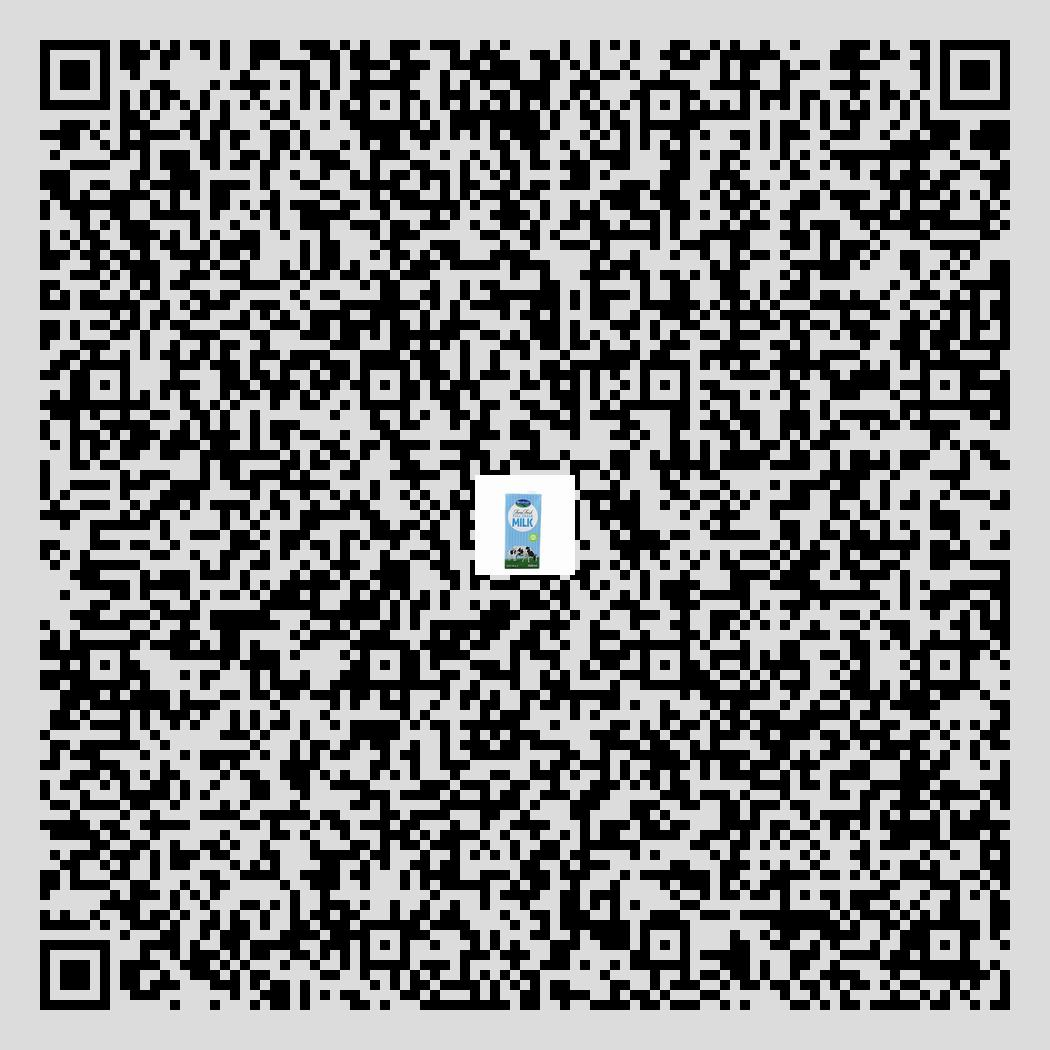
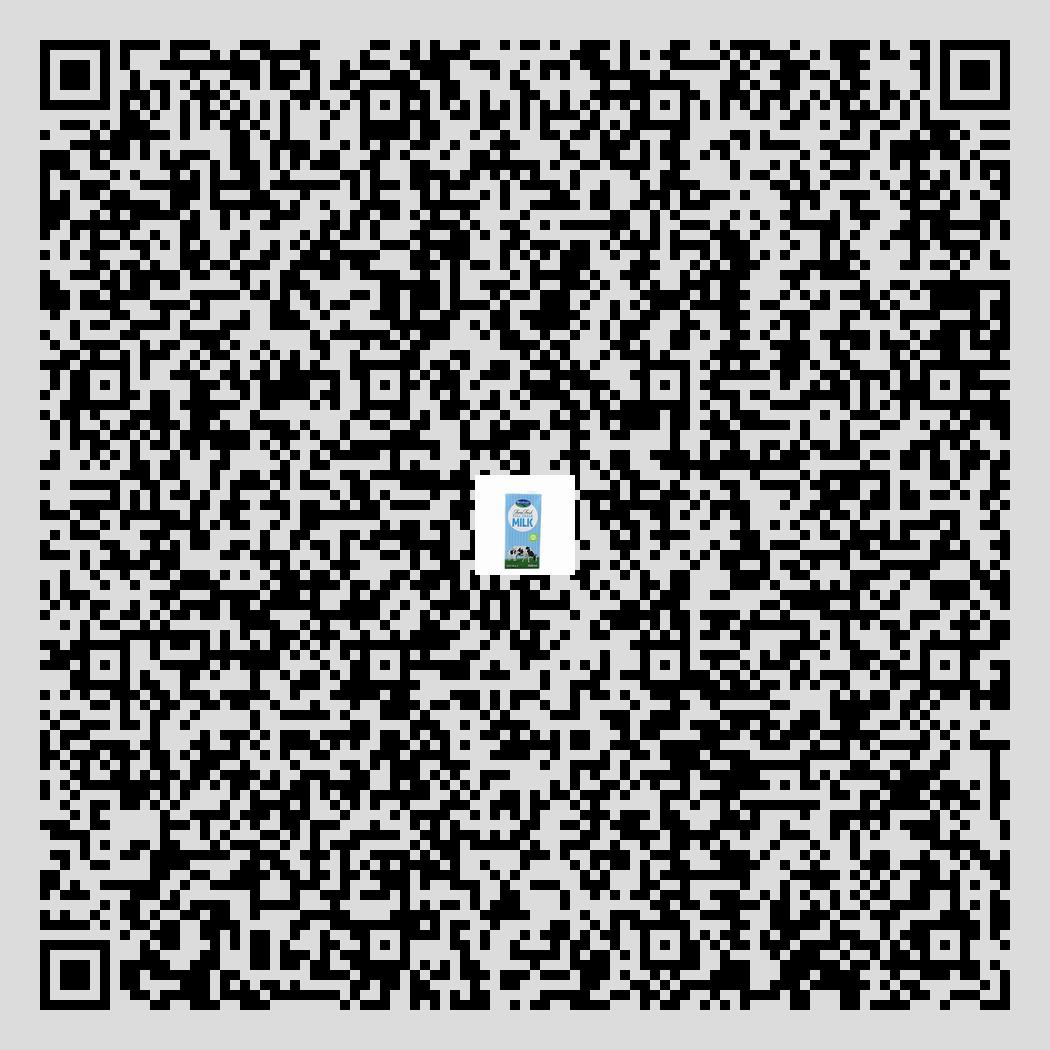
style email template|add url to sendemail page

Changed region(s): [[0.0305, 0.0305, 0.9752, 0.9752], [0.8838, 0.1219, 0.9752, 0.2743], [0.8533, 0.9143, 0.9448, 0.9752]]

diff --git a/feedback/templates/feedback/showqrcode.html b/feedback/templates/feedback/showqrcode.html
@@ -14,7 +14,7 @@
   </div>
   <br />
   <p class="qruri">
-    {{base_url}}/media/qrcodes/thumbnails/{{ brand_qr_code_picture}}
+    {{base_url}}/media/qrcodes/{{ brand_qr_code_picture}}
   </p>
 
   <div class="orangetext">&#62; Display the QRcode for scanning</div>
@@ -34,6 +34,13 @@
       name="brand_qr_code_url"
       id="loc"
       value="{{brand_qr_code_url}}"
+      hidden
+    />
+    <input
+      type="text"
+      name="base_url"
+      id="loc"
+      value="{{base_url}}"
       hidden
     />
     <input

diff --git a/feedback/templates/feedback/emailqrcode.html b/feedback/templates/feedback/emailqrcode.html
@@ -6,7 +6,7 @@
   </div>
   <br>
   <p class="qruri">
-    {{base_url}}media/qrcodes/thumbnails/{{ brand_qr_code_picture}}
+    {{base_url}}media/qrcodes/{{ brand_qr_code_picture}}
   </p>
 <form action='/email-qr-code/' method="POST">
   {% csrf_token %}

diff --git a/feedback/templates/feedback/recommendfriend.html b/feedback/templates/feedback/recommendfriend.html
@@ -5,7 +5,7 @@
     X
   </button>
   <div class="mailed centertext" id="mailed">
-    Embedding code & QR code mailed to
+    Embedding code & QR code Link mailed to
     <span class="text-success">{{ email }}</span>
   </div>
 

diff --git a/feedback/static/css/feedback.css b/feedback/static/css/feedback.css
@@ -369,3 +369,8 @@ input::placeholder {
     height: 40vh;
   }
 }
+
+.btn-success {
+  background-color: #90ee90 !important;
+  border-color: #90ee90 !important;
+}

diff --git a/feedback/views.py b/feedback/views.py
@@ -21,6 +21,9 @@ def decode(key,decodetext):
 # Encryption Key------------------------------------------------------
 key="l6h8C92XGJmQ_aXpPN7_VUMzA8LS8Bg50A83KNcrVhQ="
 
+# Base URL------------------------------------------------------
+base_url = 'http://127.0.0.1:8000/'
+
 # Create your views here.
 def error_404_view(request, exception):
 
@@ -46,7 +49,7 @@ def helpvideo(request):
 def create_Qr_Code(request):
 
     context = {}
-    base_url = 'http://127.0.0.1:8000/'
+   
 
     # Get Brand Data
     if request.method == 'POST':
@@ -105,10 +108,12 @@ def showqr(request):
     if request.method == 'POST':
         brand_qr_code_picture = request.POST['brand_qr_code_picture']
         brand_qr_code_url = request.POST['brand_qr_code_url']
+        base_url = request.POST['base_url']
 
         context = {}
         context["brand_qr_code_picture"] = brand_qr_code_picture
         context['brand_qr_code_url'] = brand_qr_code_url
+        context['base_url'] = base_url
         return render(request, 'feedback/emailqrcode.html', context)
 
 
@@ -117,6 +122,7 @@ def showqr(request):
 def emailqr(request):
 
     context = {}
+
     # Find Email Address
     if request.method == 'POST':
         brand_user_name = request.POST['brand_user_name']
@@ -125,14 +131,14 @@ def emailqr(request):
         brand_qr_code_url = request.POST['brand_qr_code_url']
 
         # URL to QR Code Image
-        brand_qr_code_picture_url = f"http://127.0.0.1:8000/media/qrcodes/{brand_qr_code_picture}"
+        brand_qr_code_picture_url = f"{base_url}media/qrcodes/{brand_qr_code_picture}"
 
         # Pass data to next tempate
         context["email"] = email
 
         # Mail Content
         subject = 'Embed your Feedback Code to your website.'
-        htmlgen =  f"Dear {brand_user_name}, <br> QR code link  is <strong><a href='{brand_qr_code_picture_url}'>{brand_qr_code_picture_url}</a></strong> <br/> <h2><br> Embed this code to your website copy this and paste your website</h2> Embed this code to your website copy this and paste your website</h2><br>&lt;iframe width='300' height='500' style='background-color:white' src='{brand_qr_code_url}' style='-webkit-transform:scale(0.7);-moz-transform-scale(0.7);' FRAMEBORDER='no' BORDER='0' SCROLLING='no'&gt;&lt;/iframe&gt; <br><br><br> Best regards, <br> <strong>Voice of Customer Feedback Team</strong>"
+        htmlgen =  f"<div style='padding: 50px'>Dear {brand_user_name}, <br> QR code link  is <strong><a href='{brand_qr_code_picture_url}'>{brand_qr_code_picture_url}</a></strong> <br/> <h2><br> Embed this code to your website or copy and paste below your website</h2><br> <div style='text-align: center;'><img src='{base_url}media/qrcodes/{ brand_qr_code_picture}' alt='qr_code'  style='height: 200px; width: 200px;' /></div><br><code>&lt;iframe width='300' height='500' style='background-color:white' src='{brand_qr_code_url}' style='-webkit-transform:scale(0.7);-moz-transform-scale(0.7);' FRAMEBORDER='no' BORDER='0' SCROLLING='no'&gt;&lt;/iframe&gt;</code><br><br><br> Best regards, <br> <strong>Voice of Customer Feedback Team</strong></div>"
         plain_message = strip_tags(htmlgen)
         from_email = settings.EMAIL_HOST_USER
         
